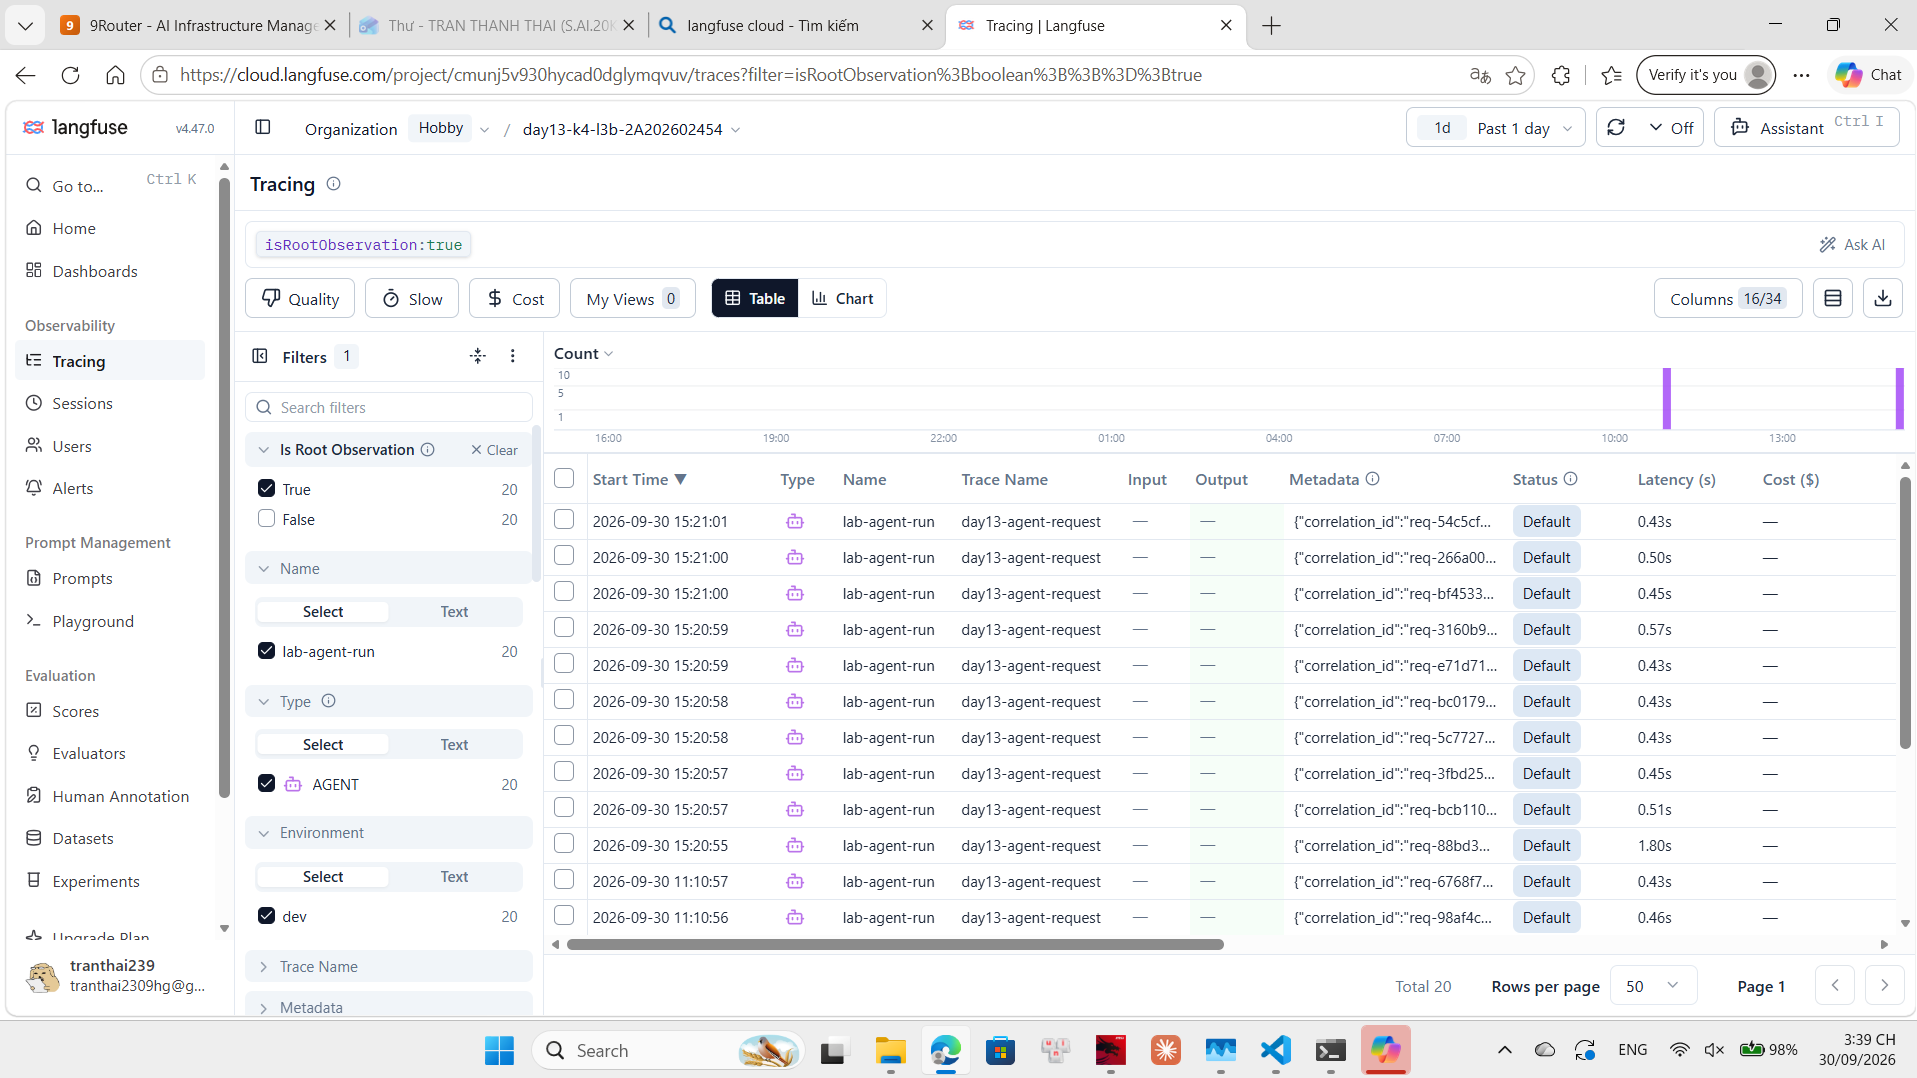
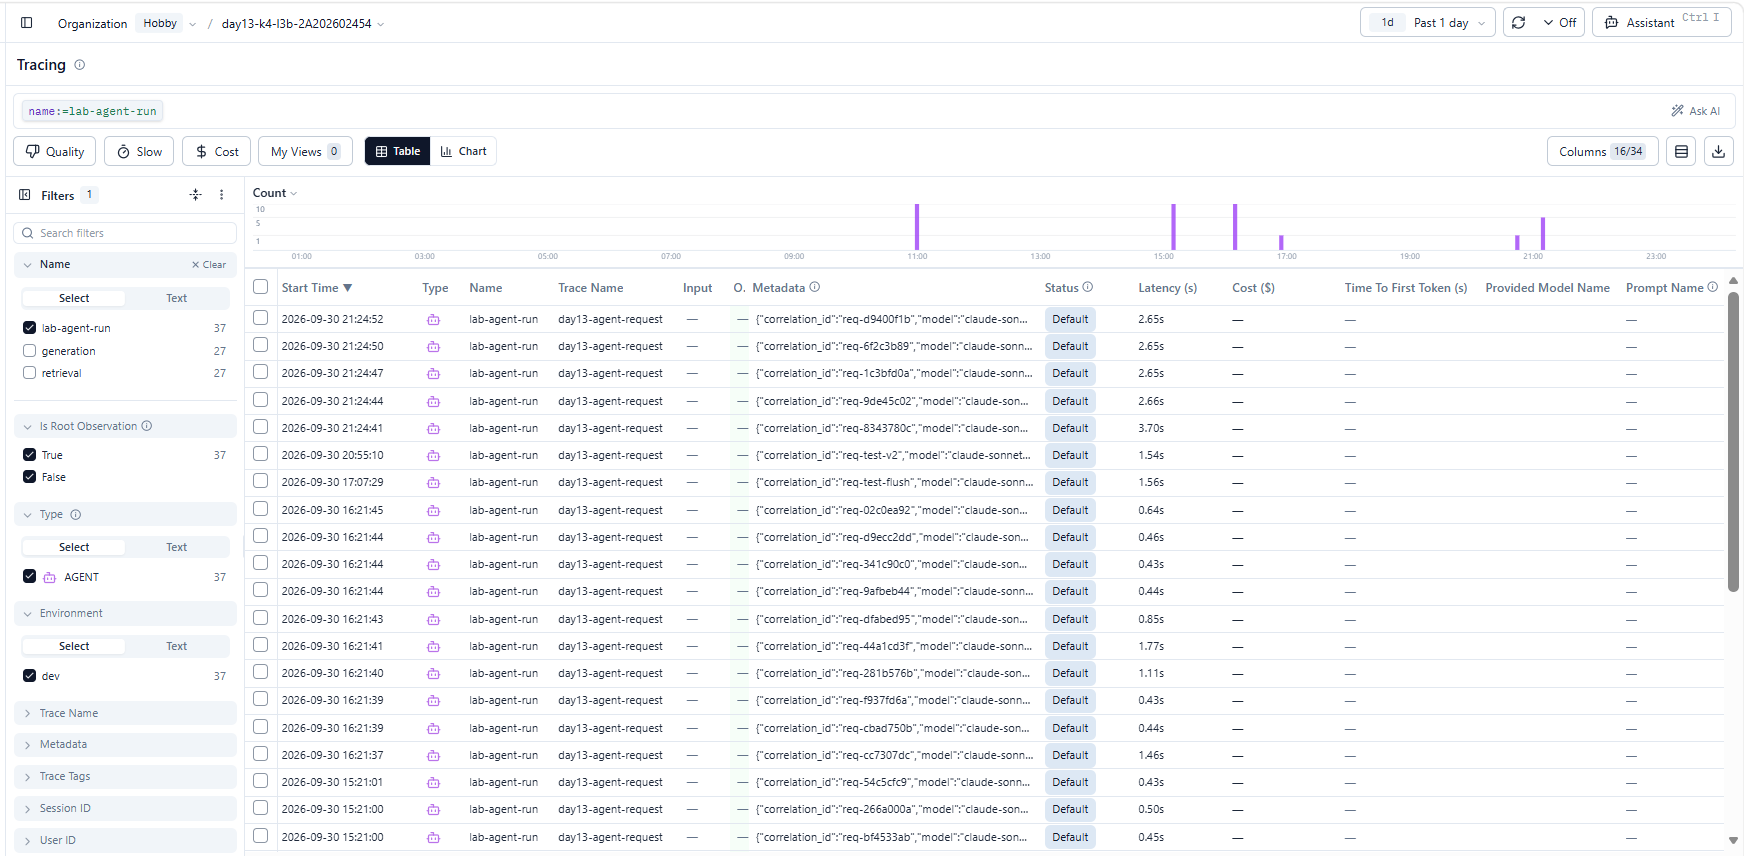
docs: finalize CP4 dashboard evidence

diff --git a/submission/dashboard.html b/submission/dashboard.html
@@ -1,0 +1,10 @@
+<!doctype html><html lang="en"><head><meta charset="utf-8"><meta name="viewport" content="width=device-width,initial-scale=1"><title>LLMOps Dashboard</title><meta name="description" content="Six-panel runtime dashboard generated from structured application logs."><style>
+      :root{--bg:#f4f6fa;--card:#fff;--ink:#162235;--muted:#66758b;--line:#dae1eb;--accent:#4d5fe8;--green:#16794b;--red:#b42318;--amber:#8a5a00;--shadow:0 8px 24px #1b2b4510}
+      @media(prefers-color-scheme:dark){:root:not([data-theme="light"]){--bg:#101722;--card:#172230;--ink:#edf3fb;--muted:#9cacc0;--line:#304052;--accent:#96a3ff;--green:#70d4a2;--red:#ff9a91;--amber:#f4c66c;--shadow:0 8px 24px #0004}}
+      :root[data-theme="dark"]{--bg:#101722;--card:#172230;--ink:#edf3fb;--muted:#9cacc0;--line:#304052;--accent:#96a3ff;--green:#70d4a2;--red:#ff9a91;--amber:#f4c66c;--shadow:0 8px 24px #0004}
+      *{box-sizing:border-box}body{margin:0;background:var(--bg);color:var(--ink);font:14px/1.45 system-ui,-apple-system,"Segoe UI",sans-serif;padding:24px}main{max-width:1400px;margin:auto}header{display:flex;justify-content:space-between;align-items:flex-start;gap:20px;margin-bottom:22px}h1{font-size:26px;margin:0 0 6px}p,.muted{color:var(--muted);margin:0}.controls{display:flex;gap:8px;align-items:center}button{border:1px solid var(--line);border-radius:9px;padding:9px 13px;background:var(--card);color:var(--ink);font:inherit;cursor:pointer}button.active{background:var(--accent);color:white;border-color:var(--accent)}.grid{display:grid;grid-template-columns:repeat(3,minmax(0,1fr));gap:14px}.card,.chart{background:var(--card);border:1px solid var(--line);border-radius:14px;box-shadow:var(--shadow);padding:17px;min-width:0}.eyebrow{font-size:14px;font-weight:700;margin-bottom:11px}.value{font-size:24px;font-weight:700;letter-spacing:-.4px}small{font-size:13px;color:var(--muted);font-weight:500}.threshold,.detail{font-size:12px;color:var(--muted);margin-top:8px}.status{margin-top:12px;font-size:10px;letter-spacing:.08em;font-weight:800}.ok{color:var(--green)}.breach{color:var(--red)}.chart{margin-top:14px}.chart h2{font-size:16px;margin:0}svg{display:block;width:100%;height:auto;margin-top:8px;overflow:visible}svg text{font-size:13px;fill:var(--muted)}.threshold-line{stroke:var(--red);stroke-width:2;stroke-dasharray:8 6}.latency-line,.ttft-line{fill:none;stroke:var(--accent);stroke-width:3;vector-effect:non-scaling-stroke}.ttft-line{stroke:#169b8b;stroke-dasharray:6 5}circle{fill:var(--red);stroke:var(--card);stroke-width:2}.incident{margin-top:10px;padding:10px 12px;background:#fff2e8;color:#8d3519;border-radius:8px;font-weight:650}footer{margin-top:16px;color:var(--muted);font-size:12px}@media(max-width:900px){body{padding:16px}header{display:block}.controls{margin-top:14px}.grid{grid-template-columns:repeat(2,minmax(0,1fr))}}@media(max-width:560px){.grid{grid-template-columns:1fr}.value{font-size:21px}}
+      </style></head><body><main><header><div><h1>K4-L3B Day 13 Monitoring &amp; LLMOps</h1><p>Runtime dashboard · Source: data/logs.jsonl · Refresh interval: 30s</p><p>Range: <strong>Last 1 day</strong> · Last event: 2026-09-30 17:17:14 UTC / 2026-10-01 00:17:14 ICT</p></div></header><section class="grid"><section class="card"><div class="eyebrow">Latency percentiles and TTFT</div><div class="value">P50 460.50 / P95 2,729.50 / P99 3,438.05 <small>ms</small></div><div class="threshold">Threshold: P95 ≤ 3000 ms</div><div class="detail">TTFT P95: 50.00 ms</div><div class="status ok">OK</div></section><section class="card"><div class="eyebrow">Request traffic</div><div class="value">36 <small>requests</small></div><div class="threshold">Threshold: Rate ≥ 1 request/min</div><div class="detail">Rate: 0.03 requests/min</div><div class="status breach">BREACH</div></section><section class="card"><div class="eyebrow">Error rate and retrieval success</div><div class="value">0.00% <small>error rate</small></div><div class="threshold">Threshold: ≤ 2% errors</div><div class="detail">Failed: 0 · Retrieval success: 100.00%</div><div class="status ok">OK</div></section><section class="card"><div class="eyebrow">Cost over time</div><div class="value">$0.080616 <small>USD total</small></div><div class="threshold">Threshold: ≤ $2.50</div><div class="detail">Responses: 36 · Source: response_sent.cost_usd</div><div class="status ok">OK</div></section><section class="card"><div class="eyebrow">Input and output tokens</div><div class="value">1,222 / 5,130 <small>input / output tokens</small></div><div class="threshold">Threshold: ≤ 50,000 total</div><div class="detail">Total: 6,352 tokens</div><div class="status ok">OK</div></section><section class="card"><div class="eyebrow">Quality proxy</div><div class="value">0.87 <small>score (0–1)</small></div><div class="threshold">Threshold: ≥ 0.75</div><div class="detail">Responses scored: 36</div><div class="status ok">OK</div></section></section><section class="chart"><h2>Latency and TTFT over time · ms</h2><p class="muted">Latency P50/P95/P99 are summarized above; plot shows each response and TTFT with latency threshold.</p><svg viewBox="0 0 1000 260" role="img" aria-label="Latency and TTFT over time">
+      <line x1="0" y1="10" x2="1000" y2="10" class="threshold-line"/><text x="8" y="24">Threshold 3000 ms</text>
+      <polyline points="453.9,58.4 453.9,87.2 453.9,87.8 453.9,87.8 454.0,86.6 454.0,87.5 454.0,87.9 454.0,87.4 454.0,87.2 454.0,88.1 627.6,50.1 627.6,85.9 627.6,87.4 627.6,87.9 627.6,88.1 627.6,87.9 627.6,84.3 627.6,87.6 627.6,86.2 627.6,88.1 669.7,59.4 669.7,87.9 669.7,88.1 669.8,69.2 669.8,50.8 669.8,76.3 669.8,87.8 669.8,88.1 669.8,87.4 669.8,82.2 696.5,17.8 880.2,0.0 880.2,26.3 880.3,26.3 880.3,26.4 880.3,26.3" class="latency-line"/><polyline points="453.9,98.6 453.9,98.6 453.9,98.6 453.9,98.6 454.0,98.6 454.0,98.6 454.0,98.6 454.0,98.6 454.0,98.6 454.0,98.6 627.6,98.6 627.6,98.6 627.6,98.6 627.6,98.6 627.6,98.6 627.6,98.6 627.6,98.6 627.6,98.4 627.6,98.6 627.6,98.6 669.7,98.6 669.7,98.6 669.7,98.6 669.8,98.6 669.8,98.6 669.8,98.6 669.8,98.6 669.8,98.6 669.8,98.6 669.8,98.6 696.5,98.6 880.2,98.6 880.2,98.6 880.3,98.6 880.3,98.6 880.3,98.6" class="ttft-line"/><circle cx="453.9" cy="58.4" r="2.5"><title>1498 ms at 2026-09-30 04:10:53 UTC</title></circle><circle cx="453.9" cy="87.2" r="2.5"><title>461 ms at 2026-09-30 04:10:54 UTC</title></circle><circle cx="453.9" cy="87.8" r="2.5"><title>441 ms at 2026-09-30 04:10:54 UTC</title></circle><circle cx="453.9" cy="87.8" r="2.5"><title>439 ms at 2026-09-30 04:10:54 UTC</title></circle><circle cx="454.0" cy="86.6" r="2.5"><title>481 ms at 2026-09-30 04:10:55 UTC</title></circle><circle cx="454.0" cy="87.5" r="2.5"><title>451 ms at 2026-09-30 04:10:55 UTC</title></circle><circle cx="454.0" cy="87.9" r="2.5"><title>434 ms at 2026-09-30 04:10:56 UTC</title></circle><circle cx="454.0" cy="87.4" r="2.5"><title>455 ms at 2026-09-30 04:10:56 UTC</title></circle><circle cx="454.0" cy="87.2" r="2.5"><title>460 ms at 2026-09-30 04:10:57 UTC</title></circle><circle cx="454.0" cy="88.1" r="2.5"><title>428 ms at 2026-09-30 04:10:57 UTC</title></circle><circle cx="627.6" cy="50.1" r="2.5"><title>1796 ms at 2026-09-30 08:20:57 UTC</title></circle><circle cx="627.6" cy="85.9" r="2.5"><title>509 ms at 2026-09-30 08:20:57 UTC</title></circle><circle cx="627.6" cy="87.4" r="2.5"><title>453 ms at 2026-09-30 08:20:58 UTC</title></circle><circle cx="627.6" cy="87.9" r="2.5"><title>434 ms at 2026-09-30 08:20:58 UTC</title></circle><circle cx="627.6" cy="88.1" r="2.5"><title>428 ms at 2026-09-30 08:20:59 UTC</title></circle><circle cx="627.6" cy="87.9" r="2.5"><title>434 ms at 2026-09-30 08:20:59 UTC</title></circle><circle cx="627.6" cy="84.3" r="2.5"><title>566 ms at 2026-09-30 08:21:00 UTC</title></circle><circle cx="627.6" cy="87.6" r="2.5"><title>445 ms at 2026-09-30 08:21:00 UTC</title></circle><circle cx="627.6" cy="86.2" r="2.5"><title>496 ms at 2026-09-30 08:21:01 UTC</title></circle><circle cx="627.6" cy="88.1" r="2.5"><title>430 ms at 2026-09-30 08:21:01 UTC</title></circle><circle cx="669.7" cy="59.4" r="2.5"><title>1463 ms at 2026-09-30 09:21:39 UTC</title></circle><circle cx="669.7" cy="87.9" r="2.5"><title>436 ms at 2026-09-30 09:21:39 UTC</title></circle><circle cx="669.7" cy="88.1" r="2.5"><title>427 ms at 2026-09-30 09:21:40 UTC</title></circle><circle cx="669.8" cy="69.2" r="2.5"><title>1110 ms at 2026-09-30 09:21:41 UTC</title></circle><circle cx="669.8" cy="50.8" r="2.5"><title>1772 ms at 2026-09-30 09:21:43 UTC</title></circle><circle cx="669.8" cy="76.3" r="2.5"><title>854 ms at 2026-09-30 09:21:44 UTC</title></circle><circle cx="669.8" cy="87.8" r="2.5"><title>440 ms at 2026-09-30 09:21:44 UTC</title></circle><circle cx="669.8" cy="88.1" r="2.5"><title>430 ms at 2026-09-30 09:21:44 UTC</title></circle><circle cx="669.8" cy="87.4" r="2.5"><title>455 ms at 2026-09-30 09:21:45 UTC</title></circle><circle cx="669.8" cy="82.2" r="2.5"><title>639 ms at 2026-09-30 09:21:45 UTC</title></circle><circle cx="696.5" cy="17.8" r="2.5"><title>2959 ms at 2026-09-30 10:00:07 UTC</title></circle><circle cx="880.2" cy="0.0" r="2.5"><title>3696 ms at 2026-09-30 14:24:44 UTC</title></circle><circle cx="880.2" cy="26.3" r="2.5"><title>2652 ms at 2026-09-30 14:24:47 UTC</title></circle><circle cx="880.3" cy="26.3" r="2.5"><title>2653 ms at 2026-09-30 14:24:50 UTC</title></circle><circle cx="880.3" cy="26.4" r="2.5"><title>2651 ms at 2026-09-30 14:24:52 UTC</title></circle><circle cx="880.3" cy="26.3" r="2.5"><title>2652 ms at 2026-09-30 14:24:55 UTC</title></circle>
+      <text x="8" y="245">09-29 17:17 UTC</text><text x="870" y="245">09-30 17:17 UTC</text>
+      <text x="735" y="36">Latency</text><text x="830" y="36">TTFT</text></svg><div class="incident">Incident observed: 3696 ms, req-8343780c</div></section><footer>Window: Last 1 day · Data timestamped in UTC; ICT = UTC+7 · Metrics computed from response_sent/request_received/request_failed records.</footer></main></body></html>

diff --git a/scripts/generate_dashboard.py b/scripts/generate_dashboard.py
@@ -51,13 +51,13 @@ def fmt(value: float | None, unit: str = "") -> str:
     return "n/a" if value is None else f"{value:,.2f}{unit}"
 
 
-def render(path: Path, mode: str) -> str:
+def render(path: Path) -> str:
     records = load_records(path)
     if not records:
         raise ValueError(f"No valid records in {path}")
 
     latest = records[-1]["_time"]
-    range_start = latest - timedelta(minutes=60) if mode == "60m" else records[0]["_time"]
+    range_start = latest - timedelta(days=1)
     selected = [row for row in records if row["_time"] >= range_start]
     requests = [r for r in selected if r["event"] == "request_received"]
     responses = [r for r in selected if r["event"] == "response_sent"]
@@ -122,7 +122,7 @@ def render(path: Path, mode: str) -> str:
     incident = next((r for r in responses if r.get("latency_ms", 0) > LATENCY_THRESHOLD_MS), None)
     incident_caption = (f"Incident observed: {incident['latency_ms']} ms, {incident_id if incident else ''}" if incident else "No response exceeded latency threshold in selected range")
     generated = datetime.now(timezone.utc).strftime("%Y-%m-%d %H:%M:%S UTC")
-    window = "Last 60 minutes" if mode == "60m" else "Full available log window (baseline + incident)"
+    window = "Last 1 day"
     svg = f'''<svg viewBox="0 0 1000 260" role="img" aria-label="Latency and TTFT over time">
       <line x1="0" y1="10" x2="1000" y2="10" class="threshold-line"/><text x="8" y="24">Threshold {LATENCY_THRESHOLD_MS} ms</text>
       <polyline points="{polyline}" class="latency-line"/><polyline points="{ttft_points}" class="ttft-line"/>{circles}
@@ -133,21 +133,18 @@ def render(path: Path, mode: str) -> str:
       @media(prefers-color-scheme:dark){{:root:not([data-theme="light"]){{--bg:#101722;--card:#172230;--ink:#edf3fb;--muted:#9cacc0;--line:#304052;--accent:#96a3ff;--green:#70d4a2;--red:#ff9a91;--amber:#f4c66c;--shadow:0 8px 24px #0004}}}}
       :root[data-theme="dark"]{{--bg:#101722;--card:#172230;--ink:#edf3fb;--muted:#9cacc0;--line:#304052;--accent:#96a3ff;--green:#70d4a2;--red:#ff9a91;--amber:#f4c66c;--shadow:0 8px 24px #0004}}
       *{{box-sizing:border-box}}body{{margin:0;background:var(--bg);color:var(--ink);font:14px/1.45 system-ui,-apple-system,"Segoe UI",sans-serif;padding:24px}}main{{max-width:1400px;margin:auto}}header{{display:flex;justify-content:space-between;align-items:flex-start;gap:20px;margin-bottom:22px}}h1{{font-size:26px;margin:0 0 6px}}p,.muted{{color:var(--muted);margin:0}}.controls{{display:flex;gap:8px;align-items:center}}button{{border:1px solid var(--line);border-radius:9px;padding:9px 13px;background:var(--card);color:var(--ink);font:inherit;cursor:pointer}}button.active{{background:var(--accent);color:white;border-color:var(--accent)}}.grid{{display:grid;grid-template-columns:repeat(3,minmax(0,1fr));gap:14px}}.card,.chart{{background:var(--card);border:1px solid var(--line);border-radius:14px;box-shadow:var(--shadow);padding:17px;min-width:0}}.eyebrow{{font-size:14px;font-weight:700;margin-bottom:11px}}.value{{font-size:24px;font-weight:700;letter-spacing:-.4px}}small{{font-size:13px;color:var(--muted);font-weight:500}}.threshold,.detail{{font-size:12px;color:var(--muted);margin-top:8px}}.status{{margin-top:12px;font-size:10px;letter-spacing:.08em;font-weight:800}}.ok{{color:var(--green)}}.breach{{color:var(--red)}}.chart{{margin-top:14px}}.chart h2{{font-size:16px;margin:0}}svg{{display:block;width:100%;height:auto;margin-top:8px;overflow:visible}}svg text{{font-size:13px;fill:var(--muted)}}.threshold-line{{stroke:var(--red);stroke-width:2;stroke-dasharray:8 6}}.latency-line,.ttft-line{{fill:none;stroke:var(--accent);stroke-width:3;vector-effect:non-scaling-stroke}}.ttft-line{{stroke:#169b8b;stroke-dasharray:6 5}}circle{{fill:var(--red);stroke:var(--card);stroke-width:2}}.incident{{margin-top:10px;padding:10px 12px;background:#fff2e8;color:#8d3519;border-radius:8px;font-weight:650}}footer{{margin-top:16px;color:var(--muted);font-size:12px}}@media(max-width:900px){{body{{padding:16px}}header{{display:block}}.controls{{margin-top:14px}}.grid{{grid-template-columns:repeat(2,minmax(0,1fr))}}}}@media(max-width:560px){{.grid{{grid-template-columns:1fr}}.value{{font-size:21px}}}}
-      </style></head><body><main><header><div><h1>K4-L3B Day 13 Monitoring &amp; LLMOps</h1><p>Runtime dashboard · Source: data/logs.jsonl · Refresh interval: 30s</p><p>Range: <strong id="range">{html.escape(window)}</strong> · Last event: {latest.strftime('%Y-%m-%d %H:%M:%S UTC')} / {(latest+timedelta(hours=7)).strftime('%Y-%m-%d %H:%M:%S ICT')}</p></div><div class="controls"><button id="last60" class="{'active' if mode=='60m' else ''}">Last 60 minutes</button><button id="full" class="{'active' if mode=='full' else ''}">Baseline + incident</button></div></header><section class="grid">{cards}</section><section class="chart"><h2>Latency and TTFT over time · ms</h2><p class="muted">Latency P50/P95/P99 are summarized above; plot shows each response and TTFT with latency threshold.</p>{svg}<div class="incident">{html.escape(incident_caption)}</div></section><footer>Window: {html.escape(window)} · Data timestamped in UTC; ICT = UTC+7 · Metrics computed from response_sent/request_received/request_failed records.</footer></main><script>
-      const params=new URLSearchParams(location.search);function choose(mode){{location.search='mode='+mode}}document.getElementById('last60').onclick=()=>choose('60m');document.getElementById('full').onclick=()=>choose('full');
-      </script></body></html>'''
+      </style></head><body><main><header><div><h1>K4-L3B Day 13 Monitoring &amp; LLMOps</h1><p>Runtime dashboard · Source: data/logs.jsonl · Refresh interval: 30s</p><p>Range: <strong>{html.escape(window)}</strong> · Last event: {latest.strftime('%Y-%m-%d %H:%M:%S UTC')} / {(latest+timedelta(hours=7)).strftime('%Y-%m-%d %H:%M:%S ICT')}</p></div></header><section class="grid">{cards}</section><section class="chart"><h2>Latency and TTFT over time · ms</h2><p class="muted">Latency P50/P95/P99 are summarized above; plot shows each response and TTFT with latency threshold.</p>{svg}<div class="incident">{html.escape(incident_caption)}</div></section><footer>Window: {html.escape(window)} · Data timestamped in UTC; ICT = UTC+7 · Metrics computed from response_sent/request_received/request_failed records.</footer></main></body></html>'''
 
 
 def main() -> None:
     parser = argparse.ArgumentParser(description="Generate a six-panel HTML dashboard from structured JSONL logs.")
     parser.add_argument("--logs", type=Path, default=DEFAULT_LOG)
     parser.add_argument("--output", type=Path, default=DEFAULT_OUTPUT)
-    parser.add_argument("--mode", choices=("60m", "full"), default="full")
     args = parser.parse_args()
     args.output.parent.mkdir(parents=True, exist_ok=True)
-    args.output.write_text(render(args.logs, args.mode), encoding="utf-8")
+    args.output.write_text(render(args.logs), encoding="utf-8")
     print(f"Dashboard written: {args.output}")
-    print(f"Open via local HTTP server; mode={args.mode}; source={args.logs}")
+    print(f"Open via local HTTP server; range=Last 1 day; source={args.logs}")
 
 
 if __name__ == "__main__":

diff --git a/tests/test_dashboard_generation.py b/tests/test_dashboard_generation.py
@@ -24,7 +24,7 @@ def test_generated_dashboard_contains_six_panels_and_scrubs_log_content(tmp_path
     )
 
     result = subprocess.run(
-        [sys.executable, str(SCRIPT), "--logs", str(logs), "--output", str(output), "--mode", "full"],
+        [sys.executable, str(SCRIPT), "--logs", str(logs), "--output", str(output)],
         cwd=ROOT,
         capture_output=True,
         text=True,
@@ -38,7 +38,7 @@ def test_generated_dashboard_contains_six_panels_and_scrubs_log_content(tmp_path
         "Latency percentiles and TTFT", "Request traffic", "Error rate and retrieval success",
         "Cost over time", "Input and output tokens", "Quality proxy", "3000 ms",
         "requests/min", "retrieval success", "50,000", "0.75", "Input / Output tokens",
-        "3696 ms", "Baseline + incident",
+        "3696 ms", "Last 1 day",
     ):
         if expected == "Input / Output tokens":
             assert "input / output tokens" in page

diff --git a/submission/REPORT.md b/submission/REPORT.md
@@ -8,7 +8,7 @@
 - **MSSV:** 2A202602454
 - **Lớp:** K4-L3B
 - **Repository URL:** https://github.com/tranthai239/K4-L3-DAY13-TranThanhThai-2A202602454-Monitoring-LLMOps
-- **Commit SHA cuối:** Chưa điền — cập nhật sau commit cuối và push remote
+- **Commit SHA code/evidence:** `4ae7329` (đã push); commit cuối cùng được ghi riêng sau lần cập nhật report cuối.
 - **Challenge ID:** `day13-k4-l3b-monitoring-llmops-v1`
 - **Tên project Langfuse cá nhân:** `day13-k4-l3b-2A202602454`
 
@@ -33,10 +33,10 @@
 | 05 - PII redaction | [evidence/05-pii-redaction.png](evidence/05-pii-redaction.png) | PII test được thay bằng marker redaction |
 | 06 - Trace list | [evidence/06-trace-list.png](evidence/06-trace-list.png) | Project Langfuse cá nhân có ít nhất 10 traces |
 | 07 - Trace waterfall | [evidence/07-trace-waterfall.png](evidence/07-trace-waterfall.png) | Root `lab-agent-run` có child retrieval và generation |
-| 08 - Trace metadata | [evidence/08-trace-metadata.png](evidence/08-trace-metadata.png) | Correlation ID, prompt metadata, token và cost |
+| 08a/08b - Trace metadata | [evidence/08a-trace-metadata.png](evidence/08a-trace-metadata.png), [evidence/08b-generation-metadata.png](evidence/08b-generation-metadata.png) | Root metadata và generation metadata |
 | 09 - Prompt versions | [evidence/09-prompt-versions.png](evidence/09-prompt-versions.png) | Prompt v1/v2 và labels |
 | 10a/10b - Prompt promote và rollback | [evidence/10a-prompt-promote.png](evidence/10a-prompt-promote.png), [evidence/10b-prompt-rollback.png](evidence/10b-prompt-rollback.png) | `production` được promote sang v2 rồi rollback về v1 |
-| 11a–11e - Dashboard overview | [evidence/11a-dashboard-traces-cost.png](evidence/11a-dashboard-traces-cost.png), [11b](evidence/11b-dashboard-traces-cost.png), [11c](evidence/11c-dashboard-traces-cost.png), [11d](evidence/11d-dashboard-traces-cost.png), [11e](evidence/11e-dashboard-traces-cost.png) | Dashboard runtime: traffic, cost, tokens và latency |
+| 11 - Dashboard overview | [evidence/11-dashboard-overview.png](evidence/11-dashboard-overview.png) | Sáu panel, units, thresholds, TTFT, retrieval success và time range 1 ngày |
 | 12 - Incident metric | [evidence/12-incident-metric.png](evidence/12-incident-metric.png) | Latency P95 tăng bất thường |
 | 13 - Incident log | [evidence/13-incident-log.png](evidence/13-incident-log.png) | Request chậm và `correlation_id=req-8343780c` |
 | 14 - Incident trace | [evidence/14-incident-trace.png](evidence/14-incident-trace.png) | Cùng correlation ID và retrieval span 2.50s |
